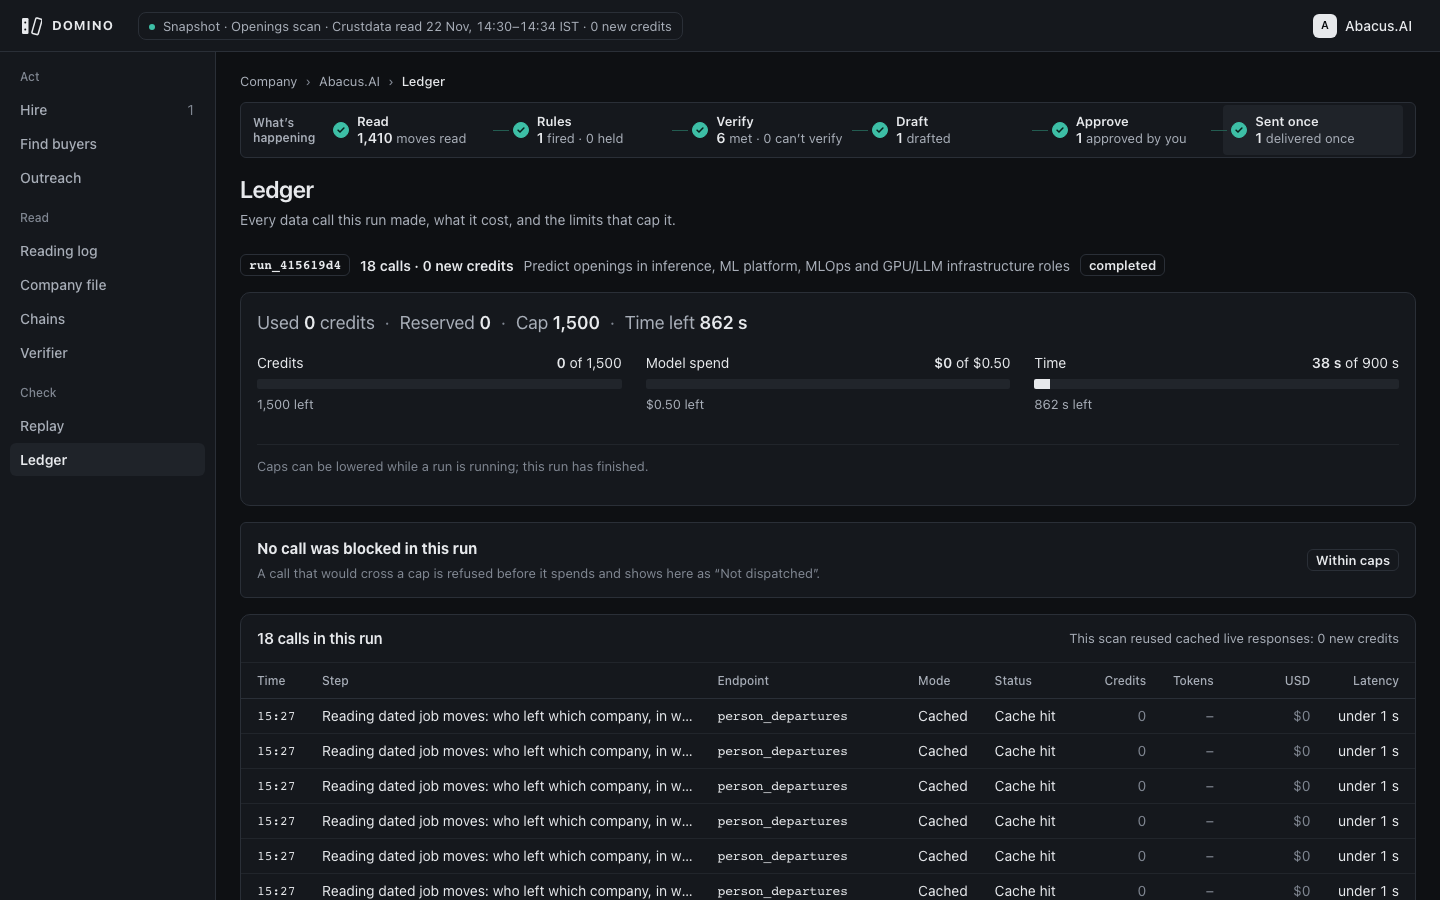
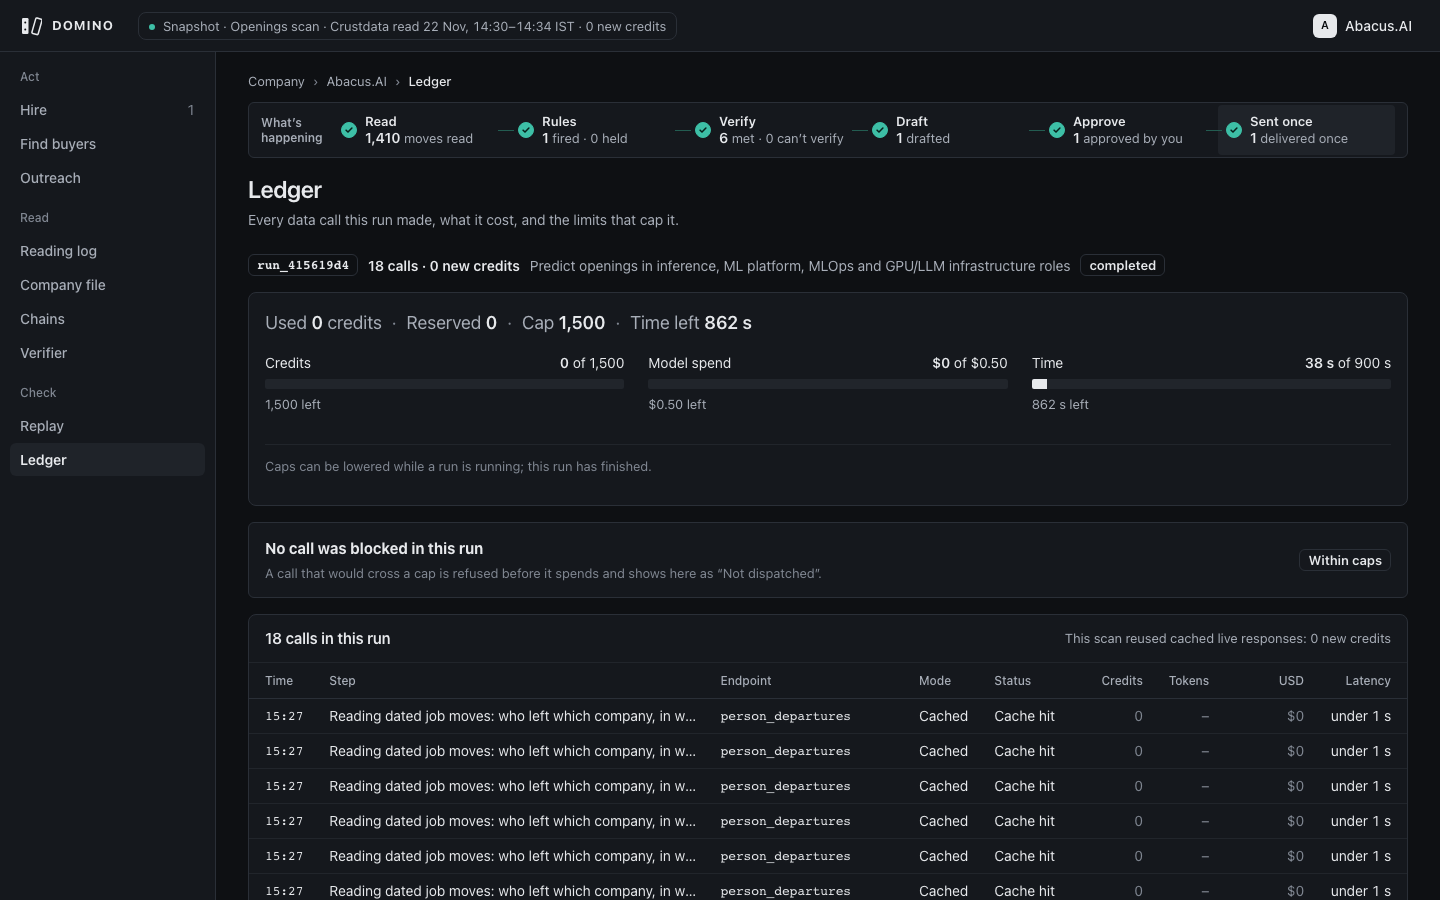
p5-shell: fluid main column (32px gutters, prose 72ch), proportional two-column layouts, Attio SPEC radii (cards 8) and UI tracking

diff --git a/web2/src/styles/app.css b/web2/src/styles/app.css
@@ -7,7 +7,7 @@
 html, body, #root { height: 100%; }
 body {
   margin: 0; background: var(--canvas); color: var(--ink); font-family: var(--sans); font-size: var(--fs-body); line-height: 1.5;
-  -webkit-font-smoothing: antialiased; transition: color var(--t) var(--ease), background-color var(--t) var(--ease);
+  letter-spacing: var(--track-ui); -webkit-font-smoothing: antialiased; transition: color var(--t) var(--ease), background-color var(--t) var(--ease);
 }
 button, input, textarea, select { font: inherit; color: inherit; }
 button { cursor: pointer; }
@@ -22,7 +22,7 @@ a { color: inherit; text-decoration: none; }
 .app { height: 100vh; display: grid; grid-template-rows: 52px 1fr; overflow: hidden; }
 .body { display: flex; min-height: 0; }
 .main { flex: 1; overflow-y: auto; min-height: 0; min-width: 0; scrollbar-gutter: stable; }
-.page { max-width: 1240px; margin: 0 auto; padding: 20px 24px 40px; }
+.page { max-width: none; margin: 0; padding: 20px 32px 48px; }
 .page-fade { min-height: 100%; }
 
 /* ---------------------------------------------------------------- top bar */
@@ -229,7 +229,7 @@ table.t .num { text-align: right; }
 .ev-meta dd { margin: 0; overflow-wrap: anywhere; }
 .ev-meta a { text-decoration: underline; }
 
-@media (min-width: 1800px) { body { font-size: 15px; } .page { max-width: 1400px; } }
+@media (min-width: 1800px) { body { font-size: 15px; } }
 .loading-line { margin: 8px 0; font-size: 14px; color: var(--ink-2); }
 /* projector floor: secondary text never below 13px or the tertiary token for deciding states */
 .st.held, .st.plain, .cant { color: var(--ink); }

diff --git a/web2/src/styles/pages.css b/web2/src/styles/pages.css
@@ -14,8 +14,12 @@
 .side a[aria-current='page'] { background: var(--hover); color: var(--ink); }
 .side a .c { color: var(--ink-3); font-weight: 400; }
 .side-foot { margin-top: auto; padding: 10px; border-top: 1px solid var(--rule-2); font-size: 13px; color: var(--ink-3); line-height: 18px; }
-.co-main { flex: 1; padding: 20px 24px 40px; min-width: 0; max-width: 1240px; }
-@media (min-width: 1800px) { .co-main { max-width: 1480px; } }
+/* fluid main column (Garud 17:11): full width with 32px gutters; grids stretch, prose keeps ~72ch */
+.co-main { flex: 1; padding: 20px 32px 48px; min-width: 0; max-width: none; }
+.co-main .ph p, .co-main .lede, .co-main .co-hint, .page .ph p { max-width: 72ch; }
+/* two-column feature layouts grow proportionally instead of pinning the side panel */
+.co-main .ver { grid-template-columns: minmax(0, 7fr) minmax(380px, 3fr); }
+.co-main .out-grid { grid-template-columns: minmax(0, 7fr) minmax(400px, 3fr); }
 
 .reading-panel { min-height: 60vh; display: grid; }
 .reading-panel .rail { min-height: 60vh; }

diff --git a/web2/src/styles/tokens.css b/web2/src/styles/tokens.css
@@ -55,7 +55,9 @@
   /* rhythm: 4px base, 8px steps */
   --s1: 4px; --s2: 8px; --s3: 12px; --s4: 16px; --s5: 24px; --s6: 32px; --s7: 48px;
   /* shape: small control radii, softer cards, 1px hairlines, one popover elevation */
-  --r-sm: 4px; --r: 6px; --r-ctl: 8px; --r-lg: 10px; --r-pill: 999px;
+  /* Attio SPEC: cards and panels 8px, controls 8-10px (8 here: 32px-tall controls read bubbly at 10), tiles 12px */
+  --r-sm: 4px; --r: 6px; --r-ctl: 8px; --r-lg: 8px; --r-xl: 12px; --r-pill: 999px;
+  --track-ui: -0.005em;
   --hair: 1px solid var(--rule); --hair-2: 1px solid var(--rule-2);
   /* data grid */
   --row-h: 40px; --row-h-compact: 36px; --head-h: 36px; --cell-x: 12px; --cell-x-edge: 16px;
